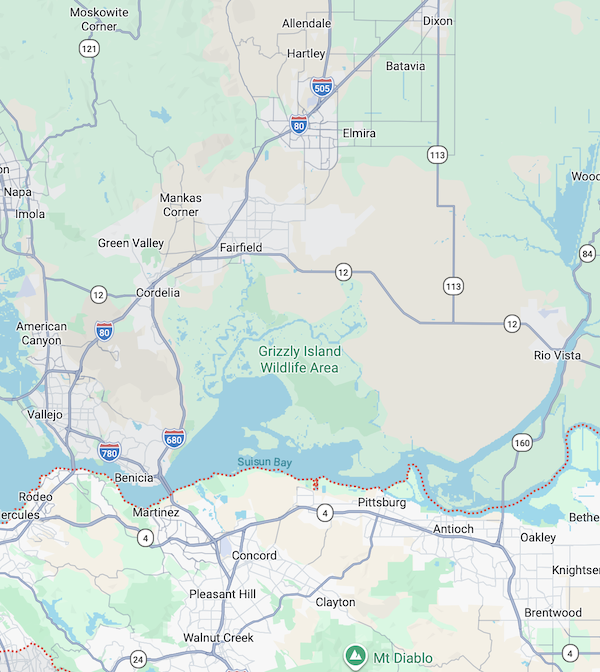
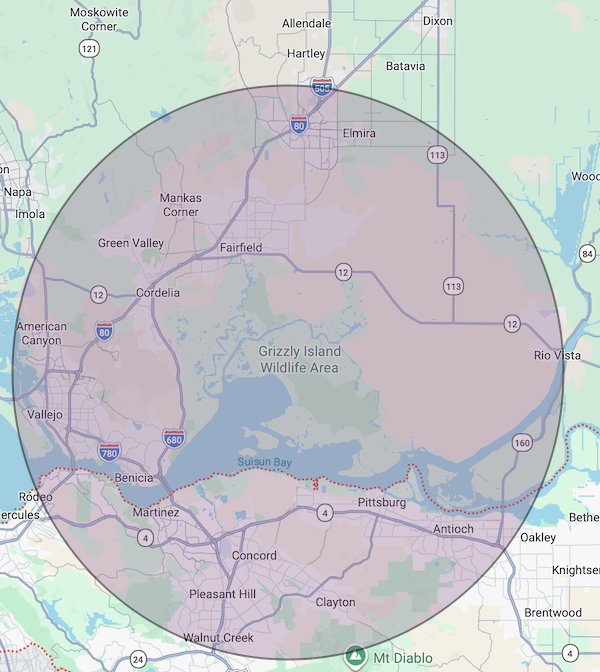
Replace service map with supplied shaded service area image

diff --git a/index.html b/index.html
@@ -9,6 +9,6 @@
 <section class="trust"><div><b>⌂</b><span>Residential</span></div><div><b>▦</b><span>Light Commercial</span></div><div><b>⚡</b><span>Repairs & Troubleshooting</span></div><div><b>◉</b><span>Installations & Upgrades</span></div><div><b>III</b><span>Three Generations</span></div><div><b>★</b><span>References Available</span></div></section>
 <section id="services" class="section"><div class="heading"><p class="eyebrow blue">ELECTRICAL SERVICES</p><h2>How can we help?</h2><p>Whether you need troubleshooting, a repair or a planned electrical upgrade, Got Power? provides professional service for homes and light commercial properties.</p></div><div class="cards"><article><div class="servicePhotos singlePhoto"><img src="https://images.unsplash.com/photo-1558002038-1055907df827?auto=format&amp;fit=crop&amp;w=1400&amp;q=90" alt="Residential interior with installed lighting"></div><div class="cardbody"><p class="eyebrow blue">FOR YOUR HOME</p><h3>Residential Electrical</h3><p>Professional electrical repairs, installations and upgrades for your home.</p><ul><li>Troubleshooting & repairs</li><li>Lighting & fixtures</li><li>Outlets & switches</li><li>Dedicated circuits</li><li>Ceiling fans</li><li>Remodel electrical</li><li>Outdoor electrical</li><li>Electrical upgrades</li></ul><a href="#contact">REQUEST RESIDENTIAL SERVICE →</a></div></article><article><div class="servicePhotos singlePhoto"><img src="https://images.unsplash.com/photo-1497366811353-6870744d04b2?auto=format&amp;fit=crop&amp;w=1400&amp;q=90" alt="Commercial interior with lighting"></div><div class="cardbody"><p class="eyebrow blue">FOR YOUR BUSINESS</p><h3>Light Commercial</h3><p>Professional electrical repairs, installations and upgrades for light commercial properties.</p><ul><li>Electrical repairs</li><li>Troubleshooting</li><li>Lighting & LED upgrades</li><li>New circuits</li><li>Equipment power</li><li>Tenant improvements</li><li>Maintenance</li><li>Electrical upgrades</li></ul><a href="#contact">REQUEST COMMERCIAL SERVICE →</a></div></article></div></section>
 <section id="about" class="why"><figure class="ownerPhoto"><img src="Dave_Updated_size.png" loading="lazy" decoding="async" alt="David Monteagudo, owner of Got Power Electrical."><figcaption><strong>David Monteagudo</strong><span>Owner &amp; Electrician</span></figcaption></figure><div><p class="eyebrow cyan">WHY GOT POWER?</p><h2>Work directly with your electrician.</h2><p>Got Power? is owned and operated by David Monteagudo. From the first conversation through completion of the work, you work directly with David.</p><p>David comes from three generations of electrical experience. His approach is straightforward: understand the work, explain the options clearly and provide dependable electrical service.</p><div class="checks"><span>✓ Owner-operated</span><span>✓ Local service</span><span>✓ Three generations</span><span>✓ References available</span></div></div></section>
-<section id="area" class="area areaMapOnly"><div class="areaIntro"><p class="eyebrow blue">SERVICE AREA</p><h2>Local electrical service across Solano & Contra Costa</h2><p>Got Power? serves homes and light commercial properties throughout Solano County and select communities in Contra Costa County.</p></div><figure class="serviceMapImage"><img src="service-area-map2.png" loading="lazy" alt="Map of Got Power service area across Solano County and Contra Costa County."></figure></section>
+<section id="area" class="area areaMapOnly"><div class="areaIntro"><p class="eyebrow blue">SERVICE AREA</p><h2>Local electrical service across Solano & Contra Costa</h2><p>Got Power? serves homes and light commercial properties throughout Solano County and select communities in Contra Costa County.</p></div><figure class="serviceMapImage"><img src="service-area-map2.png?v=shaded-20261012" loading="lazy" alt="Map of Got Power service area across Solano County and Contra Costa County."></figure></section>
 <section class="references"><span>★</span><div><p class="eyebrow blue">BUILT ON RELATIONSHIPS</p><h2>References available upon request.</h2><p>Customer references are available upon request. Contact David for more information.</p></div><a class="button dark" href="#contact">CONTACT GOT POWER?</a></section>
 <section id="contact" class="contact"><div><p class="eyebrow cyan">REQUEST SERVICE</p><h2>Tell us what you need.</h2><p>Tell us a little about the electrical work you need. Got Power? will follow up to discuss the project and next steps.</p><a class="phone" href="tel:+17076555981">(707) 655-5981</a><small>Residential • Light Commercial</small></div><form id="form" action="https://formsubmit.co/meisterfitness@gmail.com" method="post"><input type="hidden" name="_subject" value="New service request from the Got Power website"><input type="hidden" name="_template" value="table"><label class="form-honey" aria-hidden="true">Leave this field empty<input name="_honey" tabindex="-1" autocomplete="off"></label><div class="twocol"><label>Name *<input name="Name" autocomplete="name" required></label><label>Phone *<input name="Phone" type="tel" autocomplete="tel" required></label></div><div class="twocol"><label>Email<input name="Email" type="email" autocomplete="email"></label><label>City *<input name="City" autocomplete="address-level2" required></label></div><label>Service Type<select name="Service Type"><option>Residential</option><option>Light Commercial</option><option>Not Sure</option></select></label><label>How did you hear about us?<select name="How Did You Hear About Us?"><option value="" selected>Please select</option><option>Google Search</option><option>Google Maps</option><option>Referral / Friend or Family</option><option>Previous Customer</option><option>Facebook</option><option>Instagram</option><option>Nextdoor</option><option>Saw Got Power vehicle/sign</option><option>Other</option></select></label><label>How can we help? *<textarea name="How Can We Help?" rows="5" required placeholder="Briefly describe the electrical work or issue..."></textarea></label><button class="button primary" type="submit">SEND REQUEST</button><p id="status" role="status" aria-live="polite"></p></form></section></main><footer><div class="flogo">⚡ <strong>GOT POWER?</strong><small>Electrical Wiring & Repairs</small></div><div>Serving Solano & Contra Costa Counties<br>Residential & Light Commercial</div><div><a href="tel:+17076555981">(707) 655-5981</a><br>References available upon request</div></footer><a class="mobile" href="tel:+17076555981">☎ CALL GOT POWER?</a><script src="script.js"></script></body></html>
